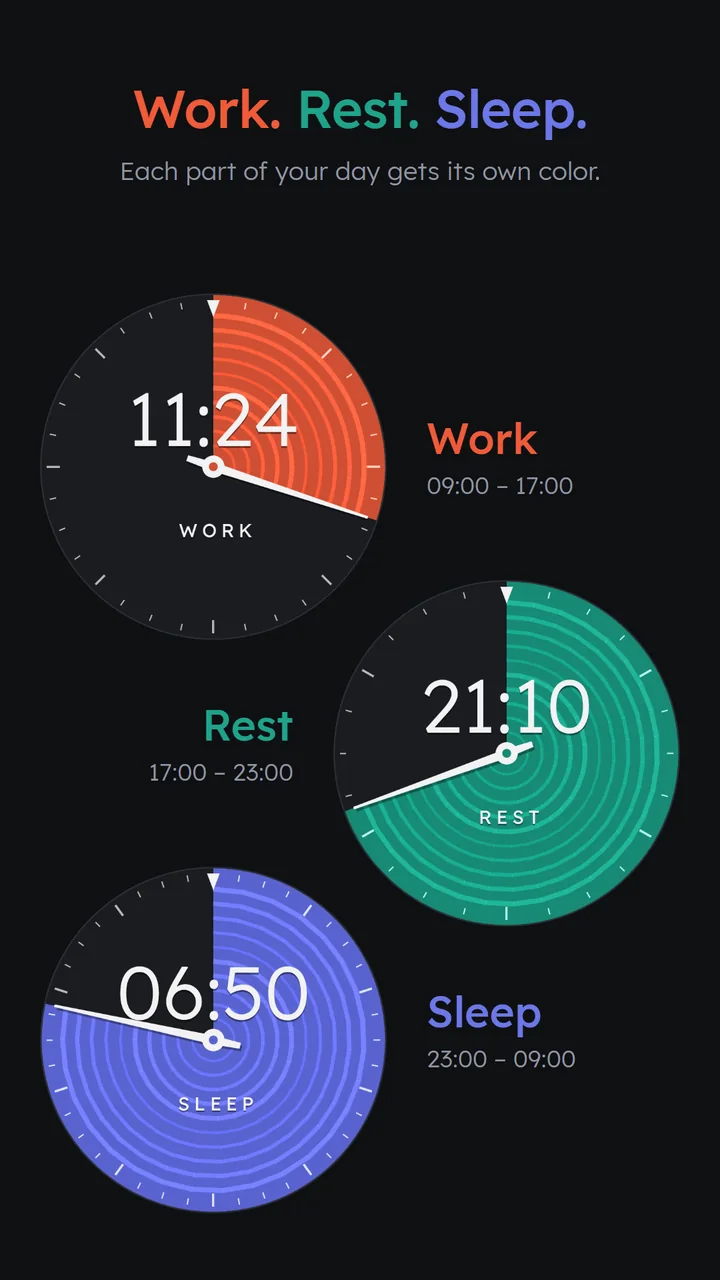
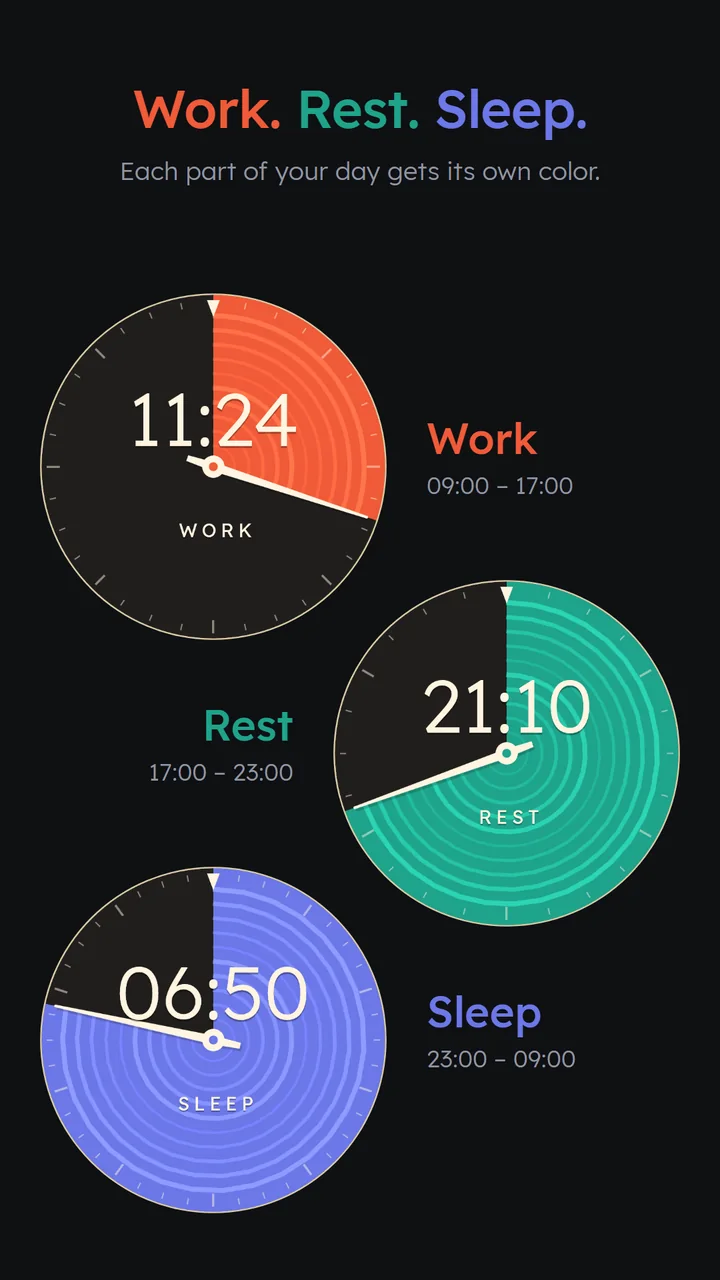
DrifTick: update previews to the new app colors
Replace all five preview screenshots with the current Play Store set
(orange day look, blue night look). The fifth image is now
"Orange or blue" (phone-5-two-colors) instead of light/dark.

Each preview now carries alt text taken from its caption.

diff --git a/src/data/products.js b/src/data/products.js
@@ -1,10 +1,11 @@
 import driftickIcon from '../assets/products/driftick/driftick-icon.svg';
-// Previews: the Play Store phone screenshots, resized to 720x1280 WebP for the web.
+// Previews: the Play Store phone screenshots (DT kit, play-store/3-phone-screenshots),
+// resized to 720x1280 WebP for the web.
 import driftickDay from '../assets/products/driftick/previews/phone-1-day.webp';
 import driftickColors from '../assets/products/driftick/previews/phone-2-colors.webp';
 import driftickWidget from '../assets/products/driftick/previews/phone-3-widget.webp';
 import driftickBlocks from '../assets/products/driftick/previews/phone-4-blocks.webp';
-import driftickLightDark from '../assets/products/driftick/previews/phone-5-light-dark.webp';
+import driftickTwoColors from '../assets/products/driftick/previews/phone-5-two-colors.webp';
 
 const products = [
   {
@@ -19,7 +20,14 @@ const products = [
     tags: ['Android', 'Free', 'Local Data', 'Widget'],
     status: 'live',
     featured: true,
-    previews: [driftickDay, driftickColors, driftickWidget, driftickBlocks, driftickLightDark],
+    // Alt text follows each screenshot's caption.
+    previews: [
+      { src: driftickDay, alt: 'See your day fill up. See what is gone and what is left.' },
+      { src: driftickColors, alt: 'Work, rest and sleep: each part of your day gets its own color.' },
+      { src: driftickWidget, alt: 'On your home screen: a widget that fills as your day goes.' },
+      { src: driftickBlocks, alt: 'Your day, your blocks: name them, then watch them pass.' },
+      { src: driftickTwoColors, alt: 'Orange or blue: two looks, switch any time.' },
+    ],
   },
   // Add more products here:
   // {
@@ -33,6 +41,7 @@ const products = [
   //   tags: ['Android', 'Free', 'Ads'],
   //   status: 'live',
   //   featured: true,
+  //   previews: [{ src: importedScreenshot, alt: 'What the screenshot shows' }],
   // },
 ];
 

diff --git a/src/pages/ProductDetail.jsx b/src/pages/ProductDetail.jsx
@@ -52,11 +52,11 @@ function ProductDetail() {
           <div className="product-previews">
             <h2 className="product-previews-title">Preview</h2>
             <div className="product-previews-grid">
-              {product.previews.map((src, i) => (
+              {product.previews.map(({ src, alt }, i) => (
                 <img
-                  key={i}
+                  key={src}
                   src={src}
-                  alt={`${product.name} preview ${i + 1}`}
+                  alt={alt || `${product.name} preview ${i + 1}`}
                   className="product-preview"
                 />
               ))}

diff --git a/src/utils/products.js b/src/utils/products.js
@@ -24,5 +24,5 @@ function preloadImage(src) {
 
 export function preloadProductImages(product) {
   preloadImage(product.icon);
-  product.previews?.forEach(preloadImage);
+  product.previews?.forEach((preview) => preloadImage(preview.src));
 }
